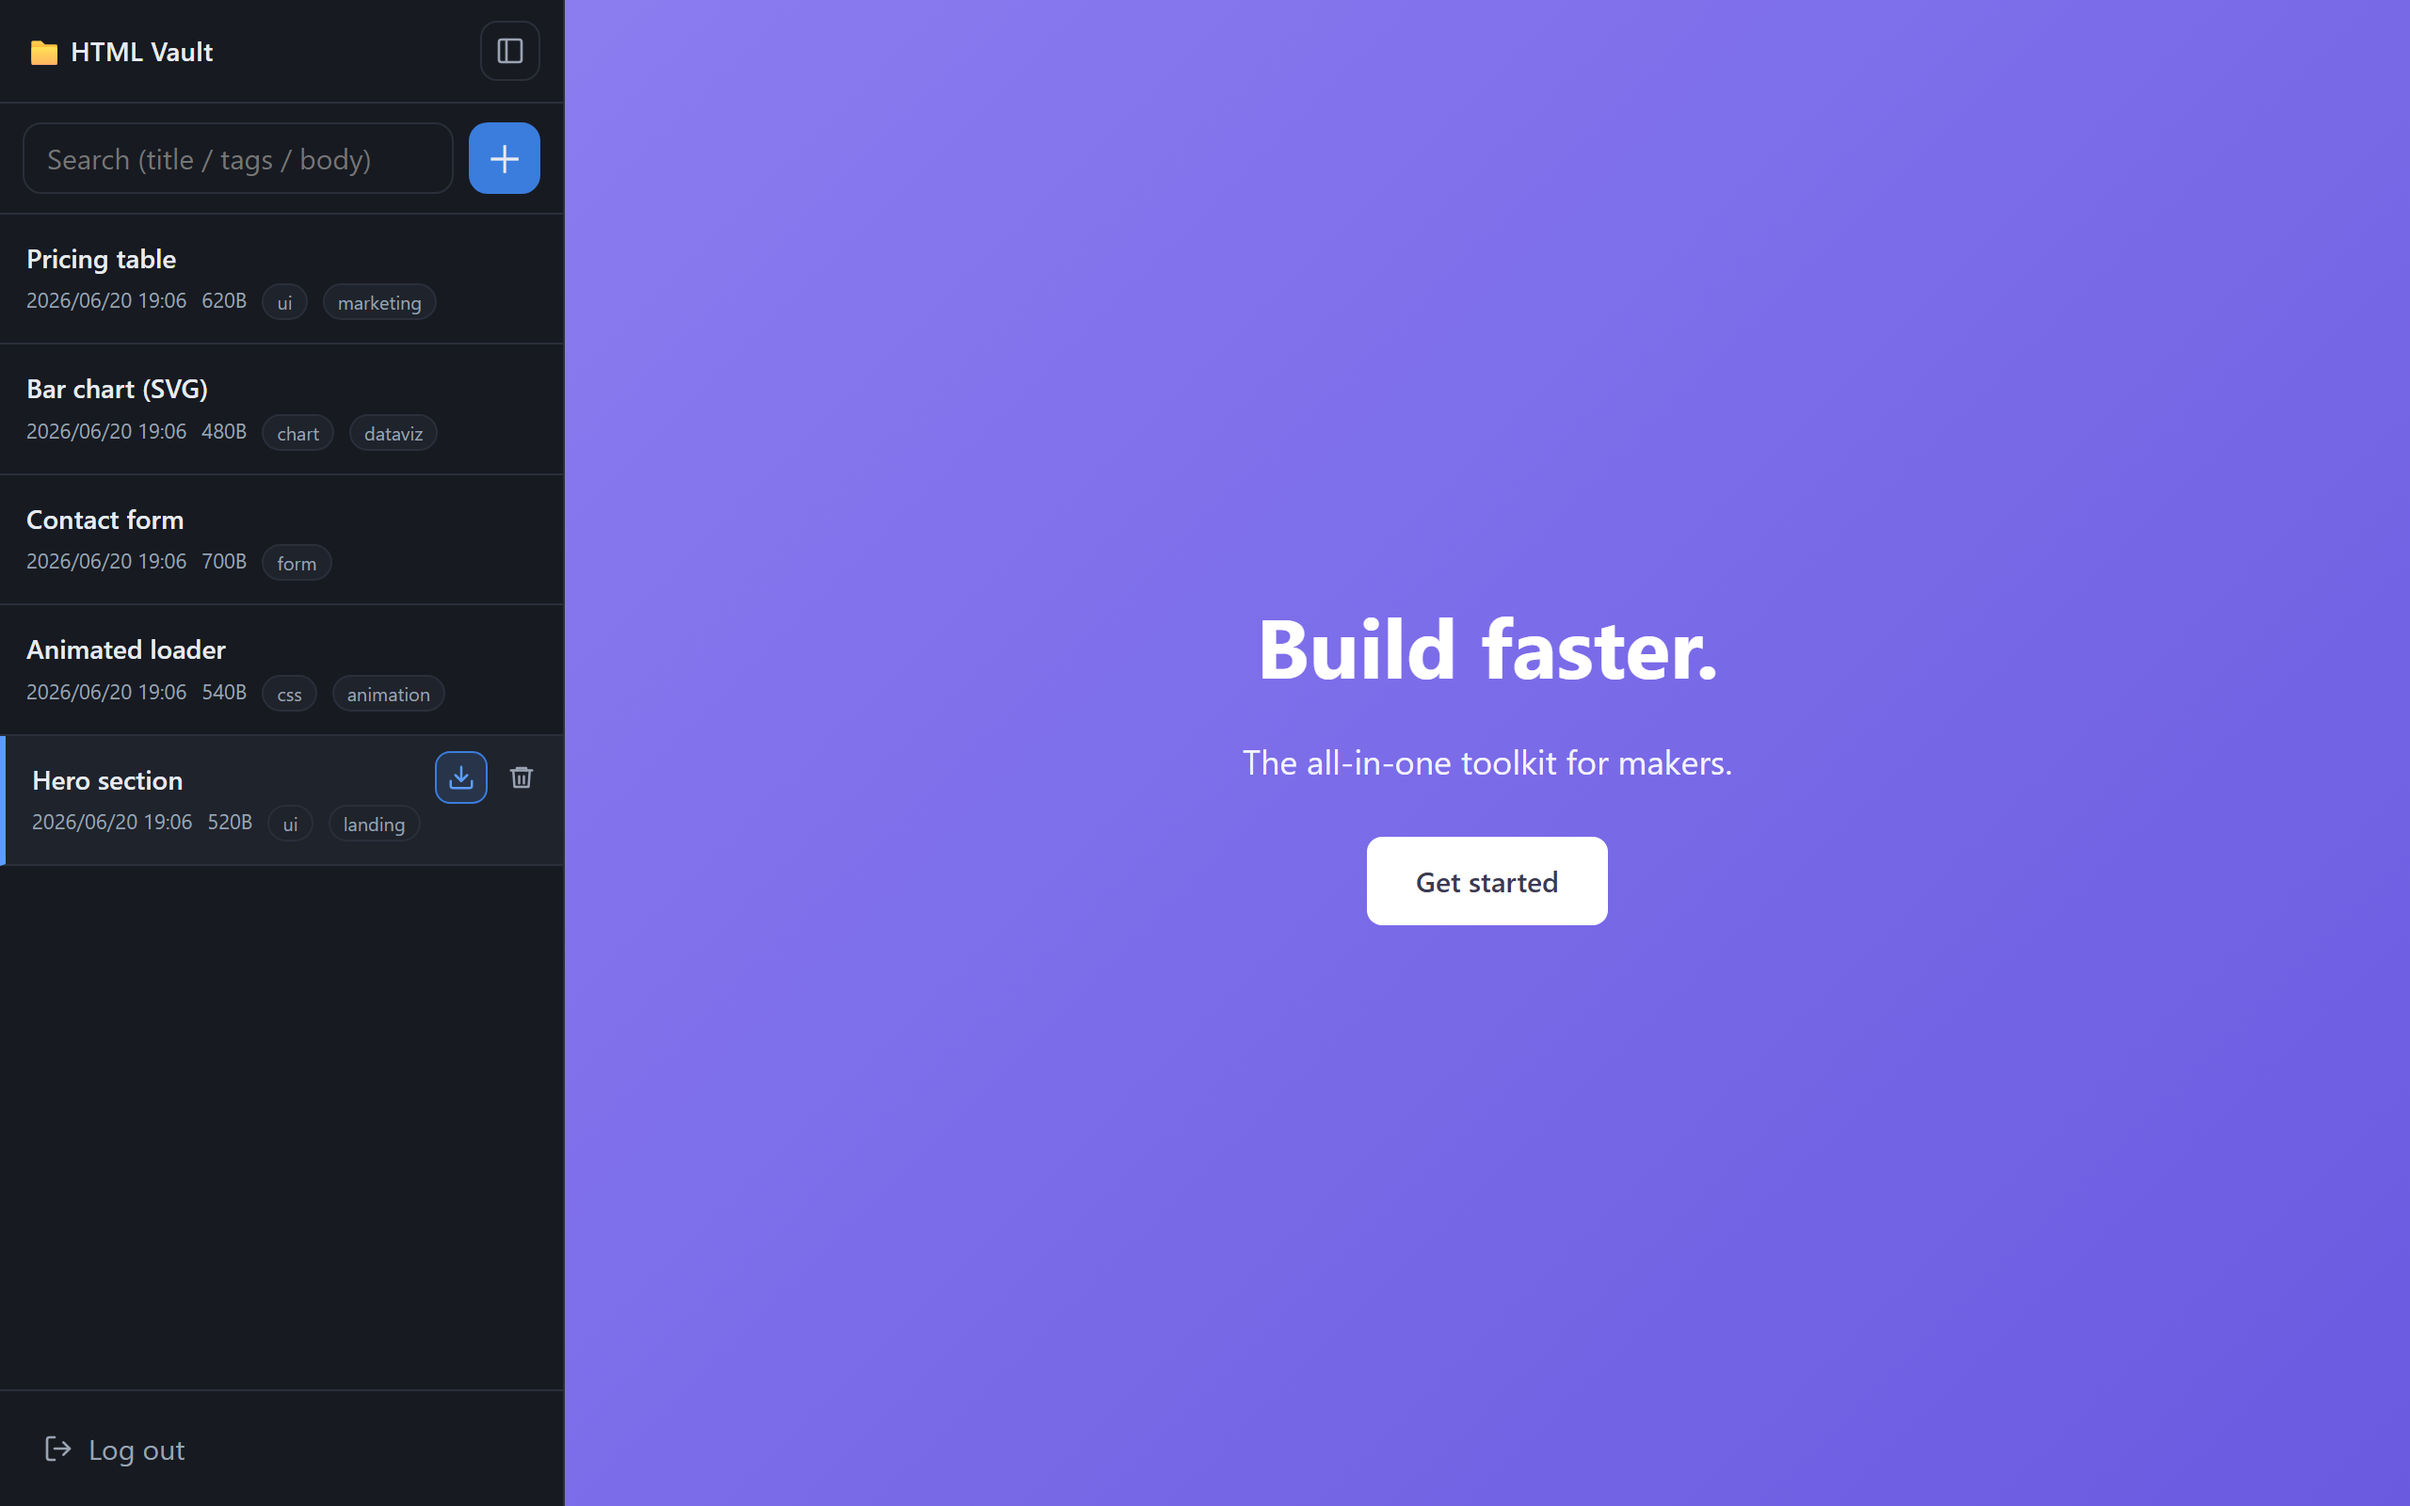
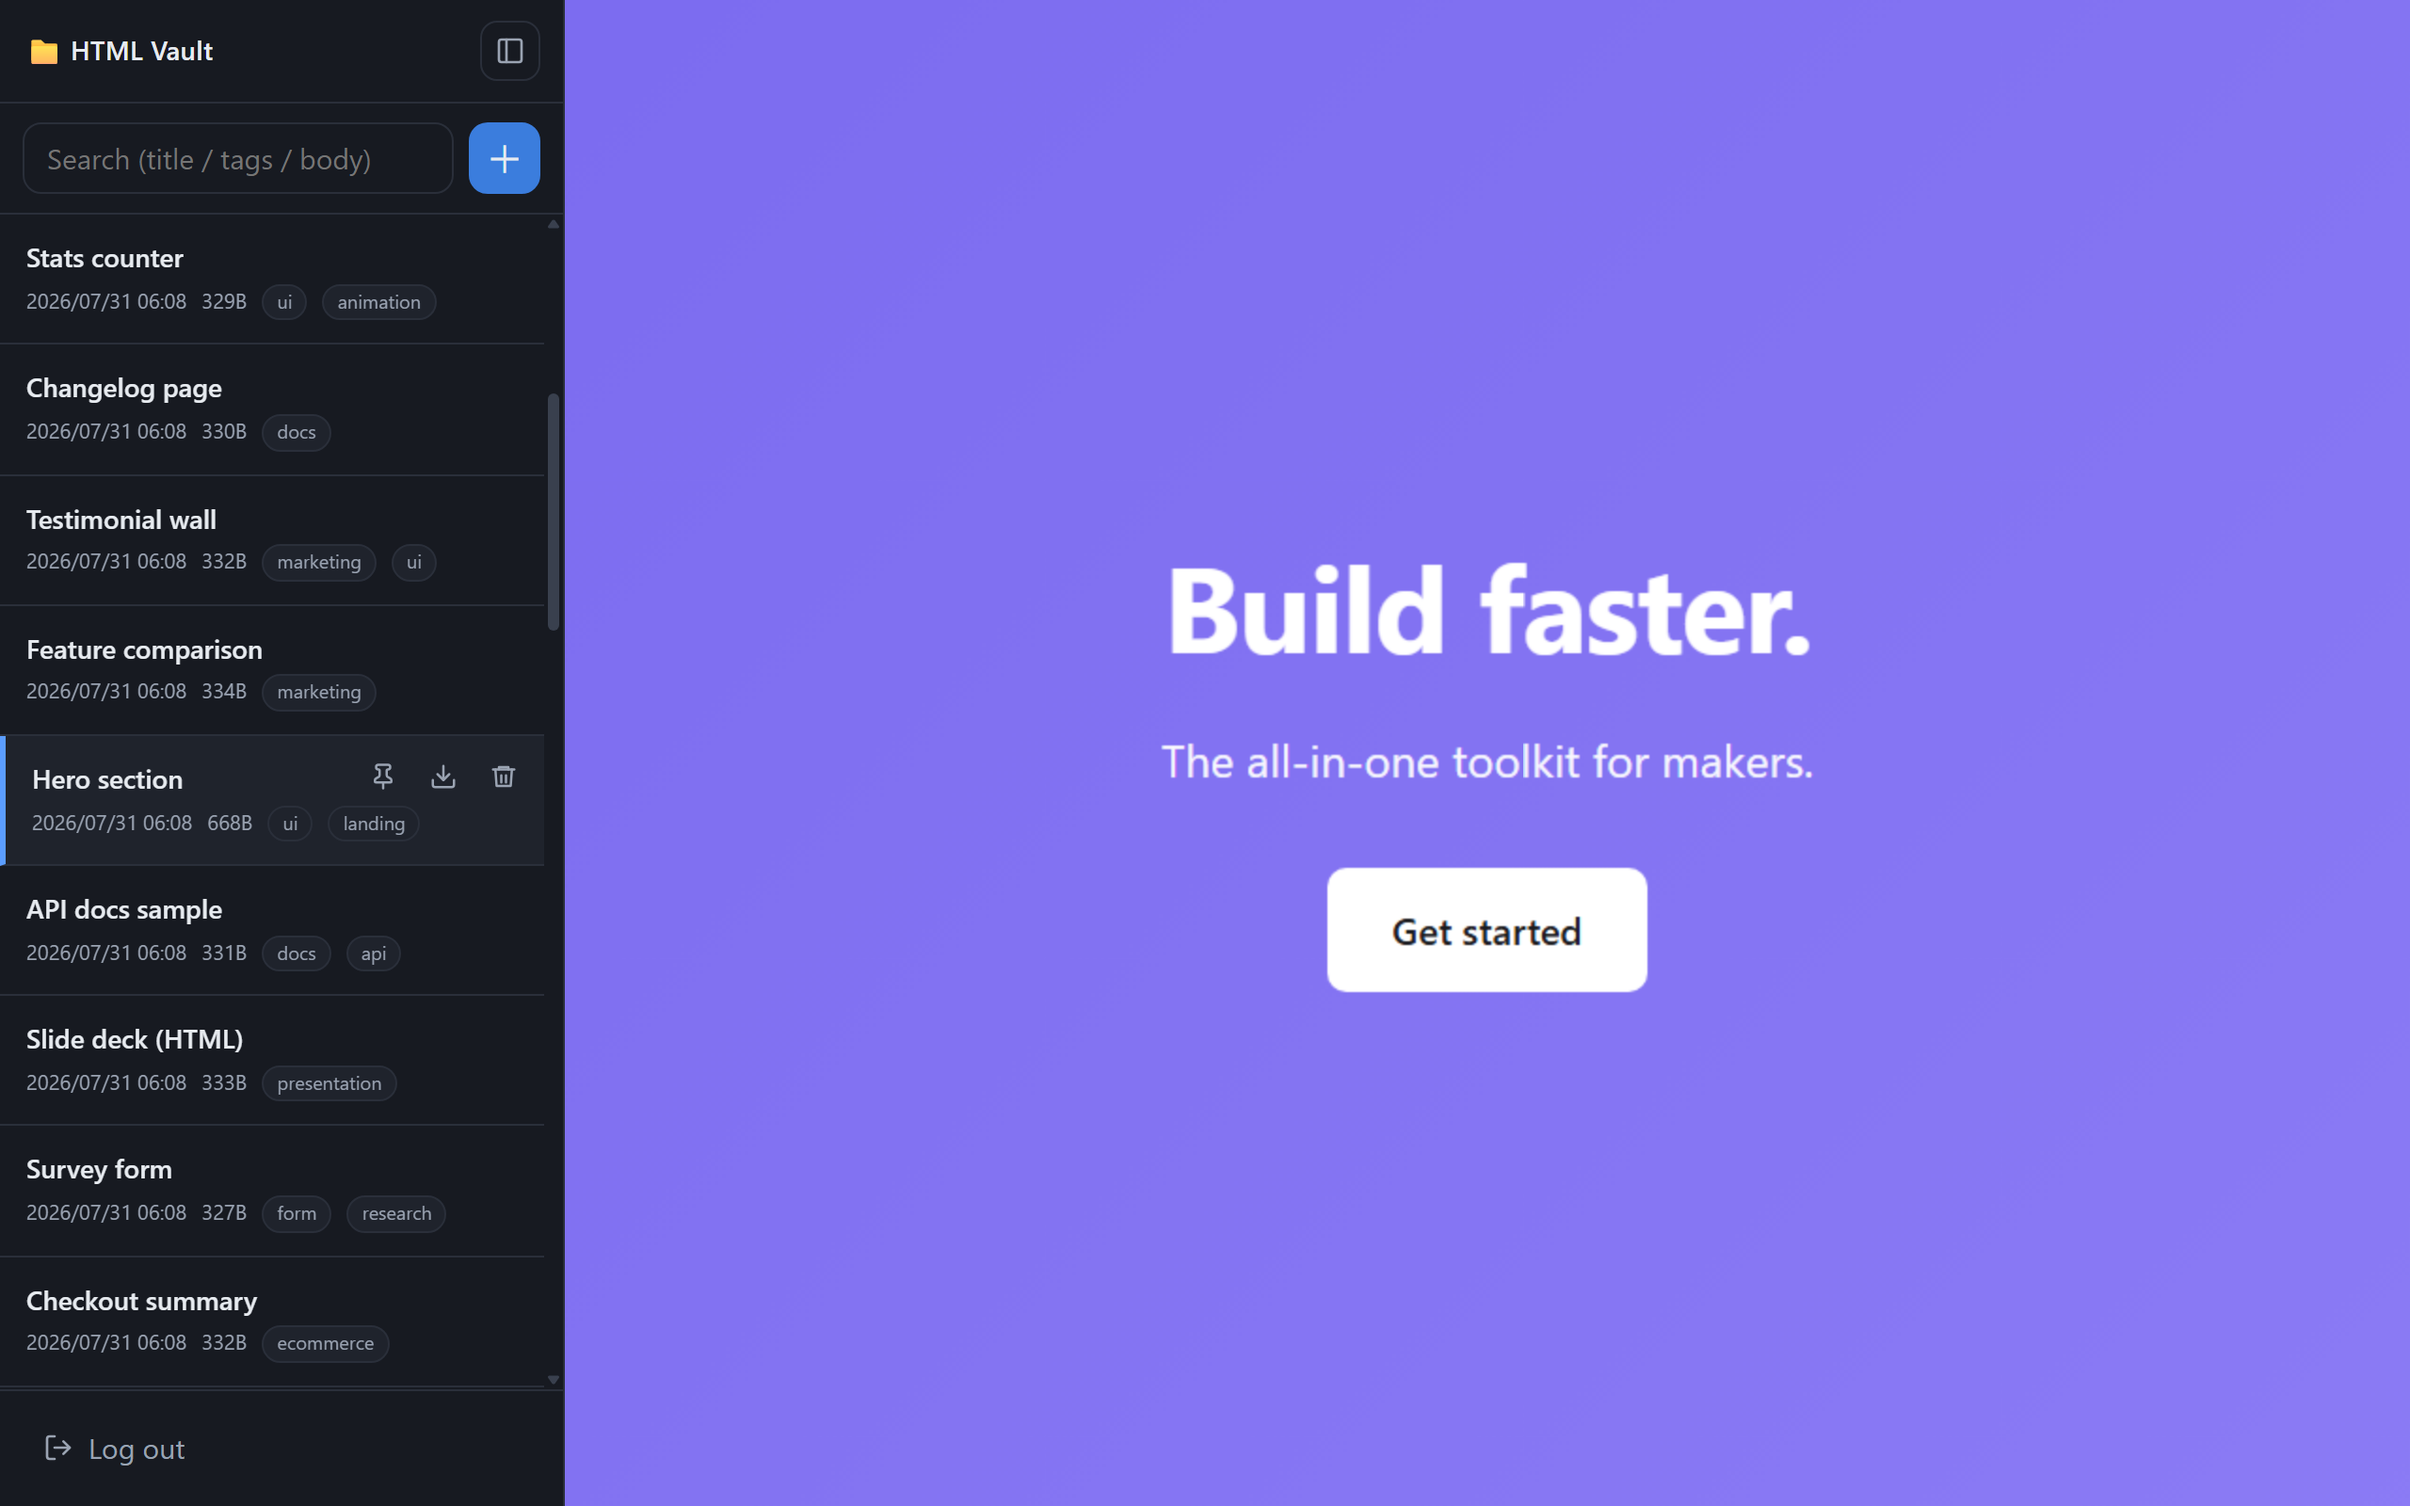
💄 スクロールバーをダークUIに合わせる (#34) (#49)
- :root に --scroll-thumb / --scroll-thumb-hover と color-scheme: dark を追加
- .list / .modal-body / textarea / pre.src (自己ホスト版のみ) にスクロールバーCSSを追加
- プレビュー iframe は color-scheme:light で従来どおり白背景を維持
- docs/screenshot.png を一覧がスクロールする状態で撮り直し

Claude-Session: https://claude.ai/code/session_01JttzagY1PXpWBvnBXAei3E

diff --git a/public/index.template.html b/public/index.template.html
@@ -9,6 +9,9 @@
     --bg:#0f1115; --panel:#171a21; --panel2:#1f232c; --line:#2a2f3a;
     --txt:#e7ebf0; --muted:#9aa3b2; --accent:#5b9dff; --accent2:#3b7ddd;
     --danger:#ff6b6b; --ok:#43c59e; --radius:14px;
+    /* スクロールバー用。--line より一段明るくして、つまみが背景に沈まないようにする */
+    --scroll-thumb:#39404e; --scroll-thumb-hover:#4b5464;
+    color-scheme: dark;
   }
   *{box-sizing:border-box}
   html,body{margin:0;height:100%}
@@ -53,6 +56,27 @@
   .toolbar input{height:38px}
   #newBtn{flex:none;width:38px;height:38px;padding:0;font-size:20px;line-height:1;display:flex;align-items:center;justify-content:center}
   .list{overflow:auto;flex:1}
+  /* スクロールバー: UIのトーンに合わせる。トラックは透明にして
+     各要素の背景 (.list=--panel / pre.src=#0b0d11) をそのまま透かす */
+  .list,.modal-body,pre.src,textarea{
+    scrollbar-width:thin;
+    scrollbar-color:var(--scroll-thumb) transparent;
+  }
+  .list::-webkit-scrollbar,.modal-body::-webkit-scrollbar,
+  pre.src::-webkit-scrollbar,textarea::-webkit-scrollbar{width:10px;height:10px}
+  .list::-webkit-scrollbar-track,.modal-body::-webkit-scrollbar-track,
+  pre.src::-webkit-scrollbar-track,textarea::-webkit-scrollbar-track{background:transparent}
+  .list::-webkit-scrollbar-thumb,.modal-body::-webkit-scrollbar-thumb,
+  pre.src::-webkit-scrollbar-thumb,textarea::-webkit-scrollbar-thumb{
+    background:var(--scroll-thumb);border-radius:999px;
+    border:2px solid transparent;background-clip:padding-box;
+  }
+  .list::-webkit-scrollbar-thumb:hover,.modal-body::-webkit-scrollbar-thumb:hover,
+  pre.src::-webkit-scrollbar-thumb:hover,textarea::-webkit-scrollbar-thumb:hover{
+    background:var(--scroll-thumb-hover);background-clip:padding-box;
+  }
+  .list::-webkit-scrollbar-corner,.modal-body::-webkit-scrollbar-corner,
+  pre.src::-webkit-scrollbar-corner,textarea::-webkit-scrollbar-corner{background:transparent}
   .item{position:relative;padding:12px 14px;border-bottom:1px solid var(--line);cursor:pointer}
   .item:hover{background:var(--panel2)}
   .item.active{background:var(--panel2);border-left:3px solid var(--accent)}
@@ -84,7 +108,7 @@
   .tabs button{font-size:13px;padding:6px 12px}
   .tabs button.on{background:var(--accent2);border-color:var(--accent2)}
   .view{flex:1;min-height:0;display:flex;flex-direction:column}
-  iframe{flex:1;border:0;width:100%;background:#fff;border-radius:0}
+  iframe{flex:1;border:0;width:100%;background:#fff;border-radius:0;color-scheme:light}
   pre.src{flex:1;margin:0;overflow:auto;padding:14px;background:#0b0d11;font:13px/1.5 ui-monospace,Menlo,Consolas,monospace;white-space:pre-wrap;word-break:break-word}
   .empty{flex:1;display:flex;align-items:center;justify-content:center;color:var(--muted);text-align:center;padding:24px}
 

diff --git a/worker/public/index.html b/worker/public/index.html
@@ -9,6 +9,9 @@
     --bg:#0f1115; --panel:#171a21; --panel2:#1f232c; --line:#2a2f3a;
     --txt:#e7ebf0; --muted:#9aa3b2; --accent:#5b9dff; --accent2:#3b7ddd;
     --danger:#ff6b6b; --ok:#43c59e; --radius:14px;
+    /* スクロールバー用。--line より一段明るくして、つまみが背景に沈まないようにする */
+    --scroll-thumb:#39404e; --scroll-thumb-hover:#4b5464;
+    color-scheme: dark;
   }
   *{box-sizing:border-box}
   html,body{margin:0;height:100%}
@@ -63,6 +66,27 @@
   .toolbar input{height:38px}
   #newBtn{flex:none;width:38px;height:38px;padding:0;font-size:20px;line-height:1;display:flex;align-items:center;justify-content:center}
   .list{overflow:auto;flex:1}
+  /* スクロールバー: UIのトーンに合わせる。トラックは透明にして
+     各要素の背景 (.list=--panel) をそのまま透かす */
+  .list,.modal-body,textarea{
+    scrollbar-width:thin;
+    scrollbar-color:var(--scroll-thumb) transparent;
+  }
+  .list::-webkit-scrollbar,.modal-body::-webkit-scrollbar,
+  textarea::-webkit-scrollbar{width:10px;height:10px}
+  .list::-webkit-scrollbar-track,.modal-body::-webkit-scrollbar-track,
+  textarea::-webkit-scrollbar-track{background:transparent}
+  .list::-webkit-scrollbar-thumb,.modal-body::-webkit-scrollbar-thumb,
+  textarea::-webkit-scrollbar-thumb{
+    background:var(--scroll-thumb);border-radius:999px;
+    border:2px solid transparent;background-clip:padding-box;
+  }
+  .list::-webkit-scrollbar-thumb:hover,.modal-body::-webkit-scrollbar-thumb:hover,
+  textarea::-webkit-scrollbar-thumb:hover{
+    background:var(--scroll-thumb-hover);background-clip:padding-box;
+  }
+  .list::-webkit-scrollbar-corner,.modal-body::-webkit-scrollbar-corner,
+  textarea::-webkit-scrollbar-corner{background:transparent}
   .item{position:relative;padding:12px 14px;border-bottom:1px solid var(--line);cursor:pointer}
   .item:hover{background:var(--panel2)}
   .item.active{background:var(--panel2);border-left:3px solid var(--accent)}
@@ -87,7 +111,7 @@
   .tabs{display:flex;gap:6px;padding:8px 12px;border-bottom:1px solid var(--line)}
   .tabs button{font-size:13px;padding:6px 12px}
   .view{flex:1;min-height:0;display:flex;flex-direction:column}
-  iframe{flex:1;border:0;width:100%;background:#fff;border-radius:0}
+  iframe{flex:1;border:0;width:100%;background:#fff;border-radius:0;color-scheme:light}
   .empty{flex:1;display:flex;align-items:center;justify-content:center;color:var(--muted);text-align:center;padding:24px}
 
   /* モーダル (ヘッダ / スクロールする本文 / 固定フッタ の3段。余分な余白を作らない) */
